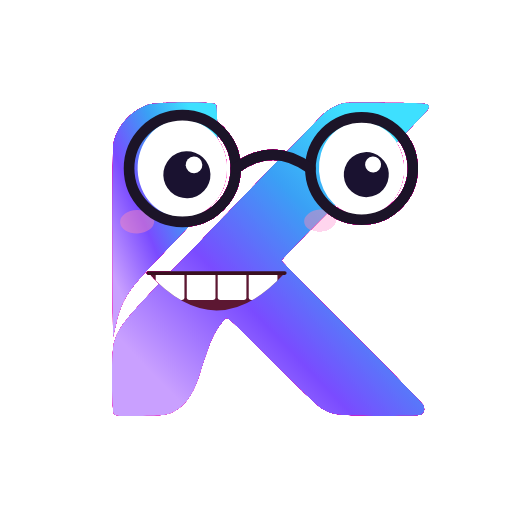
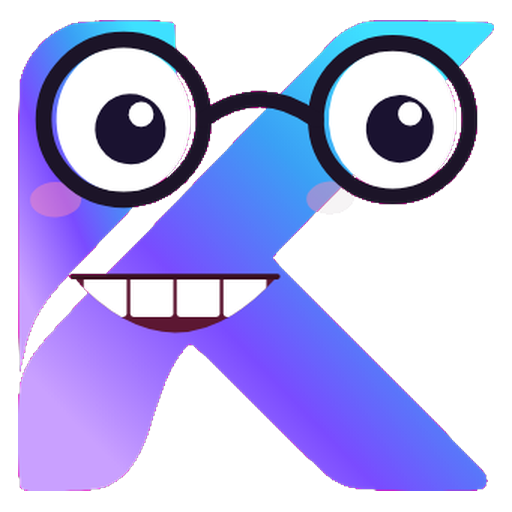
fix(chrome): iPhone Ask K1 no Soft jump — align Soft ink + clip native
Realign kelyra-soft.png ink to idle K optical center/size. SoftMark face
and comet are absoluteFill; native markSlot/bar/tray clip overflow so Yoga
cannot expand the header. Web keeps visible comet bleed.

diff --git a/src/lib/chrome/askK1NoJump.test.ts b/src/lib/chrome/askK1NoJump.test.ts
@@ -1,4 +1,5 @@
 import assert from 'node:assert/strict';
+import { execFileSync } from 'node:child_process';
 import { readFileSync } from 'node:fs';
 import { join } from 'node:path';
 import test from 'node:test';
@@ -15,9 +16,41 @@ test('K1 markSlot is square markSize (not bar-tall) so Soft shares optical cente
   assert.doesNotMatch(header, /styles\.markSlot, \{ width: markSize, height: bar \}/);
 });
 
+test('K1 markSlot / bar clip Soft on native (no Yoga expand)', () => {
+  const header = read('src/components/ui/AppHeader.tsx');
+  assert.match(header, /markSlot:[\s\S]*overflow: Platform\.OS === 'web' \? 'visible' : 'hidden'/);
+  assert.match(header, /bar:[\s\S]*overflow: Platform\.OS === 'web' \? 'visible' : 'hidden'/);
+  assert.match(header, /collapsable=\{false\}/);
+});
+
+test('SoftMark layers are absoluteFill; canvas clips on native', () => {
+  const soft = read('src/components/ui/SoftMark.tsx');
+  assert.match(soft, /StyleSheet\.absoluteFill/);
+  assert.match(soft, /overflow: Platform\.OS === 'web' \? 'visible' : 'hidden'/);
+  assert.match(soft, /collapsable=\{false\}/);
+  assert.doesNotMatch(soft, /<Animated\.View\s*\n\s*style=\{\{\s*\n\s*width: size,/);
+});
+
+test('KelyraMark host clips Soft on native; layers absolute', () => {
+  const mark = read('src/components/ui/KelyraMark.tsx');
+  assert.match(mark, /overflow: Platform\.OS === 'web' \? 'visible' : 'hidden'/);
+  assert.match(mark, /StyleSheet\.absoluteFill/);
+  assert.match(mark, /collapsable=\{false\}/);
+});
+
 test('Tray Ask glyph box equals KelyraMark size (no shorter clip slot)', () => {
   const tray = read('src/components/ui/FloatingTabTray.tsx');
   assert.match(tray, /width: glyphSize\(tab,/);
   assert.match(tray, /height: glyphSize\(tab,/);
   assert.match(tray, /KelyraMark size=\{size\}/);
+  assert.match(tray, /overflow: Platform\.OS === 'web' \? 'visible' : 'hidden'/);
+});
+
+test('Soft PNG ink center aligns with idle K canvas center (±8px)', () => {
+  const out = execFileSync(
+    '/tmp/pilvenv/bin/python',
+    [join(root, 'scripts/check-soft-ink-align.py'), join(root, 'assets/brand')],
+    { encoding: 'utf8' },
+  ).trim();
+  assert.match(out, /ok=True/);
 });

diff --git a/src/components/ui/SoftMark.tsx b/src/components/ui/SoftMark.tsx
@@ -3,6 +3,7 @@ import {
   Animated,
   Easing,
   Image,
+  Platform,
   StyleSheet,
   View,
   type StyleProp,
@@ -144,14 +145,19 @@ export function SoftMark({
       accessibilityLabel={accessible ? accessibilityLabel : undefined}
       accessibilityRole={accessible && working ? 'progressbar' : undefined}
       accessibilityState={accessible && working ? { busy: true } : undefined}
+      collapsable={false}
       style={[styles.canvas, { width: size, height: size }, style]}
     >
+      {/* Absolute face — transforms must not expand Yoga layout on iOS. */}
       <Animated.View
-        style={{
-          width: size,
-          height: size,
-          transform: [{ rotate: faceRotate }, { scaleX: faceScaleX }, { scaleY: faceScaleY }],
-        }}
+        pointerEvents="none"
+        collapsable={false}
+        style={[
+          styles.layer,
+          {
+            transform: [{ rotate: faceRotate }, { scaleX: faceScaleX }, { scaleY: faceScaleY }],
+          },
+        ]}
       >
         <Image
           source={softFace}
@@ -164,6 +170,7 @@ export function SoftMark({
       {/* Comet: canted reverse-yaw orbit; trail trails the ball (WK-LOOK-04). */}
       <Animated.View
         pointerEvents="none"
+        collapsable={false}
         style={[
           styles.gimbal,
           {
@@ -177,6 +184,7 @@ export function SoftMark({
         {trail.map((bit) => (
           <View
             key={bit.angle}
+            collapsable={false}
             style={{
               position: 'absolute',
               left: size / 2,
@@ -209,7 +217,14 @@ export function SoftMark({
 
 const styles = StyleSheet.create({
   canvas: {
-    overflow: 'visible',
+    // Native: clip so Soft/comet never expand the header/tray row.
+    // Web: allow slight comet bleed (already OK after PR 116).
+    overflow: Platform.OS === 'web' ? 'visible' : 'hidden',
+    alignItems: 'center',
+    justifyContent: 'center',
+  },
+  layer: {
+    ...StyleSheet.absoluteFillObject,
     alignItems: 'center',
     justifyContent: 'center',
   },

diff --git a/src/components/ui/FloatingTabTray.tsx b/src/components/ui/FloatingTabTray.tsx
@@ -1,5 +1,5 @@
 import { useGlobalSearchParams, useRouter } from 'expo-router';
-import { Animated, Pressable, StyleSheet, Text, View } from 'react-native';
+import { Platform, Animated, Pressable, StyleSheet, Text, View } from 'react-native';
 import { useSafeAreaInsets } from 'react-native-safe-area-context';
 
 import { HoverTip, tipIfNew } from '@/components/ui/HoverTip';
@@ -65,7 +65,7 @@ export function FloatingTabTray() {
             onPress={() => router.push(tab.href as never)}
             style={({ pressed }) => [styles.topItem, pressed && { opacity: 0.7 }]}
           >
-            <View style={{ width: glyphSize(tab, 20), height: glyphSize(tab, 20), alignItems: 'center', justifyContent: 'center' }}>
+            <View collapsable={false} style={{ width: glyphSize(tab, 20), height: glyphSize(tab, 20), alignItems: 'center', justifyContent: 'center', overflow: Platform.OS === 'web' ? 'visible' : 'hidden' }}>
               <TabGlyph tab={tab} active={tab.active} size={glyphSize(tab, 20)} colors={colors} />
               {tab.badge ? <CountBadge count={tab.badge} danger={colors.danger} ink={scheme === 'dark' ? '#1A120C' : colors.brandInk} /> : null}
             </View>
@@ -120,7 +120,7 @@ export function FloatingTabTray() {
             onPress={() => router.push(tab.href as never)}
             style={({ pressed }) => [styles.tab, { width: hit, height: hit }, pressed && { opacity: 0.7 }]}
           >
-            <View style={{ width: glyphSize(tab, iconSize), height: glyphSize(tab, iconSize), alignItems: 'center', justifyContent: 'center' }}>
+            <View collapsable={false} style={{ width: glyphSize(tab, iconSize), height: glyphSize(tab, iconSize), alignItems: 'center', justifyContent: 'center', overflow: Platform.OS === 'web' ? 'visible' : 'hidden' }}>
               <TabGlyph tab={tab} active={tab.active} size={glyphSize(tab, iconSize)} colors={colors} />
               {tab.badge ? (
                 <CountBadge count={tab.badge} danger={colors.danger} ink={scheme === 'dark' ? '#1A120C' : colors.brandInk} />

diff --git a/src/components/ui/AppHeader.tsx b/src/components/ui/AppHeader.tsx
@@ -173,6 +173,7 @@ export function AppHeader() {
           <View
             pointerEvents="none"
             accessibilityElementsHidden
+            collapsable={false}
             style={[styles.markSlot, { width: markSize, height: markSize }]}
           >
             <KelyraMark size={markSize} />
@@ -347,7 +348,7 @@ const styles = StyleSheet.create({
     flexDirection: 'row',
     alignItems: 'center',
     gap: 0,
-    overflow: 'visible',
+    overflow: Platform.OS === 'web' ? 'visible' : 'hidden',
   },
   // Shared Ask Kelyra mark + school logo slot — square markSize box (idle + Soft share center).
   markSlot: {
@@ -356,7 +357,8 @@ const styles = StyleSheet.create({
     flexShrink: 0,
     alignItems: 'center',
     justifyContent: 'center',
-    overflow: 'visible',
+    // iOS: Soft/comet must not grow the header row. Web keeps visible comet bleed.
+    overflow: Platform.OS === 'web' ? 'visible' : 'hidden',
     zIndex: 2,
   },
   hit: {

diff --git a/src/components/ui/KelyraMark.tsx b/src/components/ui/KelyraMark.tsx
@@ -3,6 +3,7 @@ import {
   Animated,
   Easing,
   Image,
+  Platform,
   StyleSheet,
   View,
   type StyleProp,
@@ -83,7 +84,8 @@ export function KelyraMark({
       accessibilityLabel={accessibilityLabel || undefined}
       accessibilityRole={working ? 'progressbar' : undefined}
       accessibilityState={working ? { busy: true } : undefined}
-      style={[{ width: size, height: size }, style]}
+      collapsable={false}
+      style={[{ width: size, height: size, overflow: Platform.OS === 'web' ? 'visible' : 'hidden' }, style]}
     >
       <Animated.View style={[styles.layer, { opacity: idleOpacity }]} pointerEvents="none">
         <Image
@@ -105,7 +107,7 @@ export function KelyraMark({
 
 const styles = StyleSheet.create({
   layer: {
-    ...StyleSheet.absoluteFillObject,
+    ...StyleSheet.absoluteFill,
     alignItems: 'center',
     justifyContent: 'center',
   },

diff --git a/scripts/check-soft-ink-align.py b/scripts/check-soft-ink-align.py
@@ -1,0 +1,23 @@
+#!/usr/bin/env python3
+from PIL import Image
+from pathlib import Path
+import sys
+base = Path(sys.argv[1] if len(sys.argv) > 1 else 'assets/brand')
+
+def ink(im, thresh=16):
+  w, h = im.size
+  pix = im.load()
+  L, T, R, B = w, h, -1, -1
+  for y in range(h):
+    for x in range(w):
+      if pix[x, y][3] > thresh:
+        L = min(L, x); T = min(T, y); R = max(R, x); B = max(B, y)
+  return (L + R) / 2, (T + B) / 2, B - T + 1
+
+idle = Image.open(base / 'kelyra.png').convert('RGBA')
+soft = Image.open(base / 'kelyra-soft.png').convert('RGBA')
+icx, icy, ih = ink(idle)
+scx, scy, sh = ink(soft)
+ok = abs(icx - scx) <= 8 and abs(icy - scy) <= 8 and abs(ih - sh) <= 12
+print(f'idle={icx},{icy},{ih} soft={scx},{scy},{sh} ok={ok}')
+sys.exit(0 if ok else 1)
